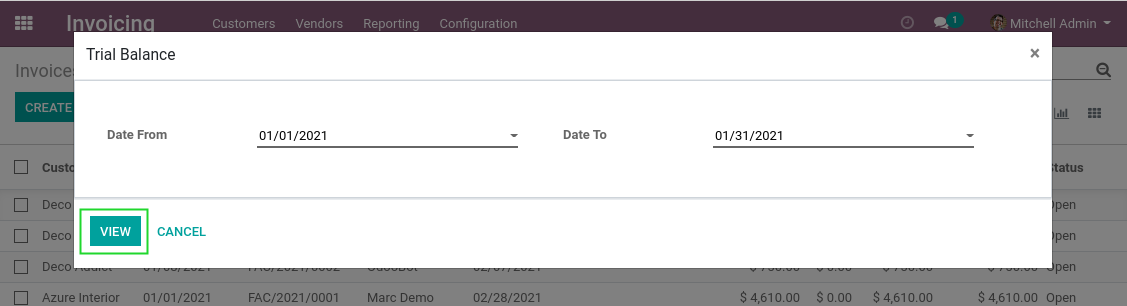
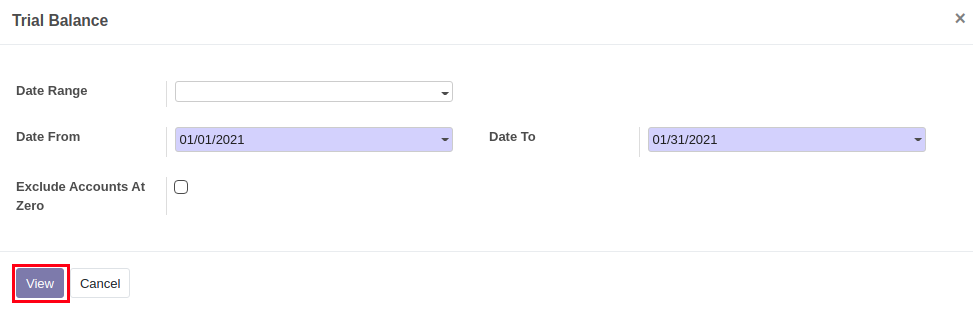
TA#40180 improve account_report_trial_balance module (#87)
* update account_report_trial_balance with exclude_null option

* run black

* add .vscode to gitignore

* update README

* update translation

* fix dockerfiles

* simplify null accounts test cases

* update wizard pictures for readme

* fix null account test cases

* update readme

* fix dockerfiles

* run black

* Exclude null lines without extra database queries

diff --git a/account_report_trial_balance/tests/test_report.py b/account_report_trial_balance/tests/test_report.py
@@ -13,43 +13,55 @@ class TestReport(common.SavepointCase):
         cls.today = datetime.now().date()
         cls.date_from = cls.today - timedelta(30)
         cls.date_to = cls.today - timedelta(1)
-        cls.report = cls.env["account.report.trial.balance"].create({
-            "company_id": cls.company.id,
-            "date_from": cls.date_from,
-            "date_to": cls.date_to,
-        })
-        cls.journal = cls.env["account.journal"].create({
-            "name": "My Journal",
-            "code": "INV",
-            "type": "general",
-            "company_id": cls.company.id,
-        })
-        cls.account_1 = cls.env["account.account"].create({
-            "company_id": cls.company.id,
-            "user_type_id": cls.env.ref("account.data_account_type_receivable").id,
-            "name": "Receivable",
-            "code": "10000",
-            "reconcile": True,
-        })
-        cls.account_2 = cls.env["account.account"].create({
-            "company_id": cls.company.id,
-            "user_type_id": cls.env.ref("account.data_account_type_payable").id,
-            "name": "Payable",
-            "code": "20000",
-            "reconcile": True,
-        })
-        cls.account_3 = cls.env["account.account"].create({
-            "company_id": cls.company.id,
-            "user_type_id": cls.env.ref("account.data_account_type_revenue").id,
-            "name": "Revenue",
-            "code": "40000",
-        })
-        cls.account_4 = cls.env["account.account"].create({
-            "company_id": cls.company.id,
-            "user_type_id": cls.env.ref("account.data_account_type_expenses").id,
-            "name": "Expense",
-            "code": "50000",
-        })
+        cls.report = cls.env["account.report.trial.balance"].create(
+            {
+                "company_id": cls.company.id,
+                "date_from": cls.date_from,
+                "date_to": cls.date_to,
+            }
+        )
+        cls.journal = cls.env["account.journal"].create(
+            {
+                "name": "My Journal",
+                "code": "INV",
+                "type": "general",
+                "company_id": cls.company.id,
+            }
+        )
+        cls.account_1 = cls.env["account.account"].create(
+            {
+                "company_id": cls.company.id,
+                "user_type_id": cls.env.ref("account.data_account_type_receivable").id,
+                "name": "Receivable",
+                "code": "10000",
+                "reconcile": True,
+            }
+        )
+        cls.account_2 = cls.env["account.account"].create(
+            {
+                "company_id": cls.company.id,
+                "user_type_id": cls.env.ref("account.data_account_type_payable").id,
+                "name": "Payable",
+                "code": "20000",
+                "reconcile": True,
+            }
+        )
+        cls.account_3 = cls.env["account.account"].create(
+            {
+                "company_id": cls.company.id,
+                "user_type_id": cls.env.ref("account.data_account_type_revenue").id,
+                "name": "Revenue",
+                "code": "40000",
+            }
+        )
+        cls.account_4 = cls.env["account.account"].create(
+            {
+                "company_id": cls.company.id,
+                "user_type_id": cls.env.ref("account.data_account_type_expenses").id,
+                "name": "Expense",
+                "code": "50000",
+            }
+        )
         cls.move_1 = cls._make_move(cls.account_1, cls.account_3, 300)
         cls.move_2 = cls._make_move(cls.account_4, cls.account_2, 200)
 
@@ -67,12 +79,14 @@ class TestReport(common.SavepointCase):
             "credit": amount,
             "company_id": cls.company.id,
         }
-        return cls.env["account.move"].create({
-            "journal_id": cls.journal.id,
-            "date": cls.date_from,
-            "company_id": cls.company.id,
-            "line_ids": [(0, 0, debit_vals), (0, 0, credit_vals)],
-        })
+        return cls.env["account.move"].create(
+            {
+                "journal_id": cls.journal.id,
+                "date": cls.date_from,
+                "company_id": cls.company.id,
+                "line_ids": [(0, 0, debit_vals), (0, 0, credit_vals)],
+            }
+        )
 
     def test_one_line_per_account(self):
         lines = self._get_lines()
@@ -150,6 +164,16 @@ class TestReport(common.SavepointCase):
             ("date", "<=", self.date_to),
             ("move_id.state", "=", "posted"),
         ]
+
+    def test_exclude_null(self):
+        self.report.exclude_null = True
+        lines = self._get_lines()
+        assert not lines
+
+    def test_include_null(self):
+        self.report.exclude_null = False
+        lines = self._get_lines()
+        assert lines
 
     def _get_lines(self):
         return self.report.get_rendering_variables()["lines"]

diff --git a/account_report_trial_balance/report/report.py b/account_report_trial_balance/report/report.py
@@ -19,6 +19,8 @@ class TrialBalanceReport(models.TransientModel):
     date_from = fields.Date(required=True)
     date_to = fields.Date(required=True)
 
+    exclude_null = fields.Boolean(string="Exclude Accounts At Zero")
+
     @api.onchange("date_range_id")
     def _onchange_date_range(self):
         if self.date_range_id:
@@ -53,8 +55,8 @@ class TrialBalanceReport(models.TransientModel):
         )
 
     def _get_report_url(self):
-        config = self.env['ir.config_parameter'].sudo()
-        return config.get_param('report.url') or config.get_param('web.base.url')
+        config = self.env["ir.config_parameter"].sudo()
+        return config.get_param("report.url") or config.get_param("web.base.url")
 
     def get_rendering_variables(self):
         return {
@@ -70,7 +72,9 @@ class TrialBalanceReport(models.TransientModel):
     def initial_balance_clicked(self, account_id):
         action = self._get_move_line_action()
         account = self._get_account(account_id)
-        action["name"] = _("({account}) - Initial Balance").format(account=account.display_name)
+        action["name"] = _("({account}) - Initial Balance").format(
+            account=account.display_name
+        )
         action["domain"] = self._get_initial_balance_domain(account_id)
         return action
 
@@ -98,7 +102,9 @@ class TrialBalanceReport(models.TransientModel):
     def closing_balance_clicked(self, account_id):
         action = self._get_move_line_action()
         account = self._get_account(account_id)
-        action["name"] = _("({account}) - Closing Balance").format(account=account.display_name)
+        action["name"] = _("({account}) - Closing Balance").format(
+            account=account.display_name
+        )
         action["domain"] = self._get_closing_balance_domain(account_id)
         return action
 
@@ -136,7 +142,13 @@ class TrialBalanceReport(models.TransientModel):
         }
 
     def _get_lines(self):
-        return [self._get_account_line(account) for account in self._get_accounts()]
+        all_lines = (
+            self._get_account_line(account) for account in self._get_accounts()
+        )
+        if self.exclude_null:
+            return [l for l in all_lines if not self._is_null_line(l)]
+        else:
+            return [*all_lines]
 
     def _get_account_line(self, account):
         debit, credit = self._get_debit_credit(account)
@@ -150,6 +162,15 @@ class TrialBalanceReport(models.TransientModel):
             "initial_balance": initial_balance,
             "closing_balance": initial_balance + balance,
         }
+
+    def _is_null_line(self, line):
+        return (
+            not line["debit"]
+            and not line["credit"]
+            and not line["balance"]
+            and not line["initial_balance"]
+            and not line["closing_balance"]
+        )
 
     def _get_accounts(self):
         domain = self._get_account_domain()
@@ -174,7 +195,11 @@ class TrialBalanceReport(models.TransientModel):
             and am.state = 'posted'
             GROUP BY aml.account_id
             """,
-            (date_from, date_to, account.id,),
+            (
+                date_from,
+                date_to,
+                account.id,
+            ),
         )
         res = self._cr.fetchall()
         if not res:
@@ -194,7 +219,10 @@ class TrialBalanceReport(models.TransientModel):
             and am.state = 'posted'
             GROUP BY aml.account_id
             """,
-            (date_from, account.id,),
+            (
+                date_from,
+                account.id,
+            ),
         )
         res = self._cr.fetchall()
         if not res:

diff --git a/account_report_trial_balance/controller/print_report.py b/account_report_trial_balance/controller/print_report.py
@@ -7,16 +7,19 @@ from odoo.http import request
 
 
 class PrintGeneralLedger(http.Controller):
-
-    @http.route('/web/account_report_trial_balance/<int:report_id>', type='http', auth='user')
+    @http.route(
+        "/web/account_report_trial_balance/<int:report_id>", type="http", auth="user"
+    )
     def account_report_trial_balance_pdf(self, report_id, token):
-        output_pdf = request.env['account.report.trial.balance'].browse(report_id).get_pdf()
+        output_pdf = (
+            request.env["account.report.trial.balance"].browse(report_id).get_pdf()
+        )
         response = request.make_response(
             output_pdf,
             headers=[
-                ('Content-Type', 'application/pdf'),
-                ('Content-Disposition', 'attachment; filename=trial_balance.pdf;')
-            ]
+                ("Content-Type", "application/pdf"),
+                ("Content-Disposition", "attachment; filename=trial_balance.pdf;"),
+            ],
         )
-        response.set_cookie('fileToken', token)
+        response.set_cookie("fileToken", token)
         return response

diff --git a/account_report_trial_balance/README.rst b/account_report_trial_balance/README.rst
@@ -19,6 +19,7 @@ I select a date range for the report.
 
 .. image:: static/description/wizard.png
 
+
 Then, I click on ``View``.
 It selects only posted account move lines.
 
@@ -29,6 +30,12 @@ In the report, I can click on any amount to view the details.
 .. image:: static/description/report_amount.png
 
 .. image:: static/description/report_amount_clicked.png
+
+When generating the report, you can also select to exclude accounts that have all their values at 0.
+
+.. image:: static/description/wizard_null.png
+
+.. image:: static/description/report_null.png
 
 Contributors
 ------------
